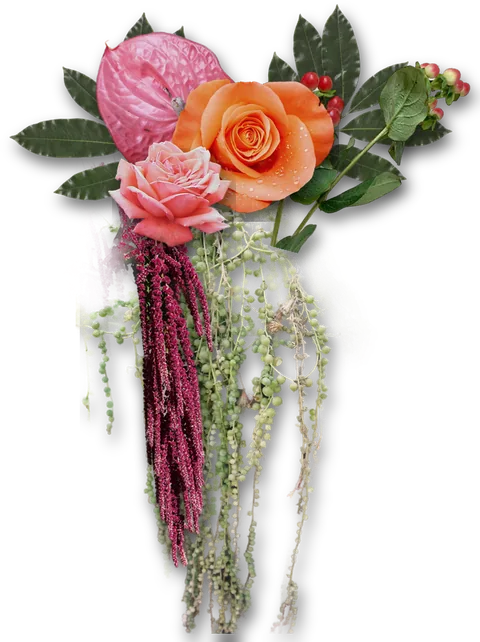
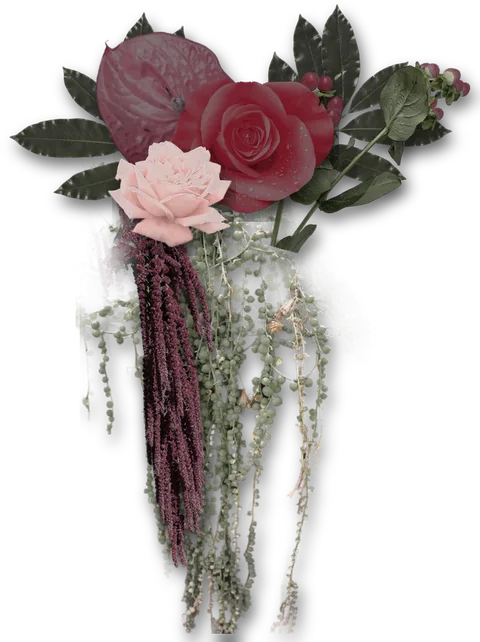
Beludru: warna bunga disesuaikan dengan palet tema

diff --git a/aset/bunga/KREDIT.md b/aset/bunga/KREDIT.md
@@ -17,3 +17,5 @@ Gambar `bunga-besar.webp`, `bunga-kecil.webp`, `bunga-juntai.webp`, dan `bunga-l
 | [Litchi chinensis leaf](https://commons.wikimedia.org/wiki/File:Litchi_chinensis_leaf.png) | B.navez | CC BY-SA 3.0 |
 | [Daisy](https://commons.wikimedia.org/wiki/File:Daisy.png) | Lubna | CC BY-SA 3.0 |
 | [Zantedeschia aethiopica](https://commons.wikimedia.org/wiki/File:Zantedeschia_aethiopica_002.png) | Amada44 | CC BY 3.0 |
+
+Perubahan: latar foto dihapus, warna bunga & daun disesuaikan ke palet tema (merah anggur, blush, krem, zaitun), lalu disusun menjadi rangkaian.
